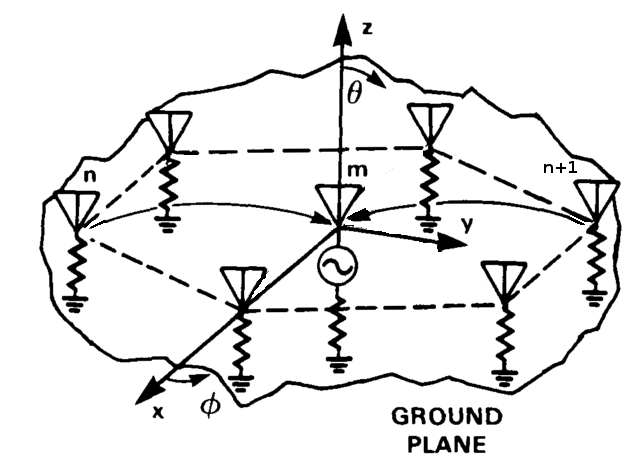
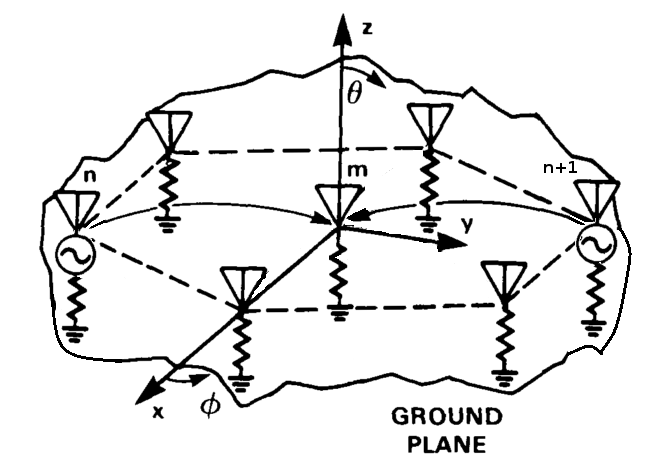
first steps to write the mutual calibration method

diff --git a/written/thesis/capitulos/capitulo04.tex b/written/thesis/capitulos/capitulo04.tex
@@ -5,8 +5,72 @@
 
 \section{Calibración utilizando acoplamientos mútuos}
 
+El método que utiliza los acoplamientos mútuos toma ventaja del acoplamiento mútuo inherente de un arreglo transmitiendo 
+y recibiendo entre elementos adyacentes. Para llevar a cabo dicho método, este tipo de antenas debe cumplir un 
+requerimiento muy importante que es poder transmitir con un elemento y simultáneamente recibir con otro. 
+Ordinariamente, este requerimiento implica separar las redes de transmisión y recepción \cite{Gao2001}. Para antenas que no 
+cumplen la separación de la redes de transmisión y recepción se puede transmitir en una polarización y recibir en otra. 
+En la figura \ref{fig:mutual_general} se puede observar un ejemplo.
+
+\begin{figure}[H]
+ \centering
+ \includegraphics[width=9cm]{gfx/mutualCouplingExample.png}
+ \caption{Ejemplo de calibración utilizando acoplamientos mútuos, transmitiendo en la polarización V y recibiendo en H}
+ \label{fig:mutual_general}
+\end{figure}
+
+\subsection{Método}
+
+Asumiendo que se transmite desde el elemento $m$ y se recibe desde el $n$, la función de transferencia del lazo de 
+calibración está compuesta por la configuración de atenuación y defasaje de los defasadores y atenuadores tanto de 
+transmisión como de recepción, denotados como $w_{Tm}(i)$ y $w_{Rn}(j)$, donde $i$, $j$ son las diferentes posibles 
+configuraciones, y la atenuación y defasaje combinados por los cables, conectores, módulos radiantes y divisores de potencia,
+denotados como $u_{Tm}$ y $u_{Rn}$. Por lo tanto, la función de transferencia completa resulta.
+
+\begin{equation}
+	C^{'}_{m,n} = w_{Tm} u_{Tm} C_{m,n} w_{Rn} u_{Rn}
+	\label{eq:transfer_mn}
+\end{equation}
+
+Si se transmite con el mismo elemento, $m$, pero se recibe con otro, $n + 1$, la transferencia resulta
+
+\begin{equation}
+	C^{'}_{m,n + 1} = w_{Tm} u_{Tm} C_{m,n + 1} w_{Rn + 1} u_{Rn + 1}
+	\label{eq:transfer_mnn}
+\end{equation}
+
+Tomando la relación de ambas transferencias \ref{eq:transfer_mn} y \ref{eq:transfer_mnn},
+
+\begin{equation}
+	W^{'}_{Rn,n + 1} = \dfrac{C^{'}_{m,n}}{C^{'}_{m,n + 1}} = \dfrac{C_{m,n} w_{Rn} u_{Rn}}{C_{m,n + 1} w_{Rn + 1} u_{Rn + 1}}
+	\label{eq:transfer_mn1}
+\end{equation}
+
+Si la distancias entre los pares de elementos $m,n$ y $m,n+1$ es la misma, $C_{m,n} = C_{m, n + 1}$, simplificando la ecuación 
+\ref{eq:transfer_mn1}.
+
+\begin{equation}
+	W^{'}_{Rn,n + 1} = \dfrac{w_{Rn} u_{Rn}}{w_{Rn + 1} u_{Rn + 1}}
+	\label{eq:transfer_mn2}
+\end{equation}
+
+La ecuación \ref{eq:transfer_mn2} resulta en la relación que hay entre los caminos de recepción de los elementos $n$ y 
+$n+1$. Si al elemento $m$ se lo utiliza para recibir y a los elementos $n$ y $n + 1$ para transmitir, la ecuación que se 
+obtiene sirve para calibrar la antena en modo transmisión.
+
+\begin{equation}
+	W^{'}_{Tn,n + 1} = \dfrac{w_{Tn} u_{Tn}}{w_{Tn + 1} u_{Tn + 1}}
+	\label{eq:transfer_mn2}
+\end{equation}
+
+El cálculo previo sirve solamente para el caso donde se conoce el acoplamiento mútuo entre 
+
+
+\subsection{Problemas y limitaciones}
+
+
 Una de las grandes ventajas de este método frente al método anterior es que no requiere hardware extra, logrando así 
-disminuir la complejidad de la antena, de esta forma se puede construir de una forma más compacta.
+disminuir la complejidad de la antena, de esta forma se la puede construir de una forma más compacta.
 
 Tomando como $M$ la cantidad de filas de módulos radiantes por panel y $N$ la cantidad de paneles, las tres modalidades de 
 este método son:
@@ -22,12 +86,22 @@ este método son:
 		La cantidad de ecuaciones necesarias es de $4MN$.
 \end{itemize}
 
-El modo planitud ideal cuenta con otra limitación que, para poder ser utilizado en una antena de cualquier topología utiliza 
-lazos de calibración de tal forma que el acoplamiento mutuo queda eliminado. Para esto hay dos estrategias, la primera transmite 
-con un RM y recibe de forma consecutiva con otros RMs equiespaciados al de transmisión para luego restar ambos caminos. La 
-segunda, transmite de forma consecutiva desde los RMs equiespaciados y recibe con un único RM central, la imagen 
+El acoplamiento mútuo se lo modeliza como si fuese un cable pero con las propiedades de atenuación y defasaje de una onda en
+el vacío. Las cuales son:
 
-\todo{crear la imagen para esa cosa}
+\todo{Poner que significa el alfa}
+\begin{equation}
+	c = \dfrac{e^{-2\alpha r}}{4\pi r^2}
+\end{equation}
+
+El modo planitud ideal cuenta con otra limitación que, si bien se asume que el acoplamiento mútuo es desconocido, se sabe que 
+a distancias iguales dicho acoplamiento es el mismo. Por lo tanto, para calibrar una antena de cualquier topología solo se 
+utilizan lazos de calibración simétricos con un módulo radiante común. Al restar ambos caminos, no solo se elimina el 
+camino común, que puede ser la parte de transmisión o recepción, sino que también se elimina el acoplamiento mútuo.
+
+Si el RM común se utiliza para transmitir la señal, se obtienen ecuaciones para calibrar la parte de recepción, en cambio, 
+si se lo utiliza para recibir la señal, se calibra transmisión. La figura \ref{fig:ideal_strategy} esquematiza esta estrategia.
+
 \begin{figure}[H]
  \centering
 	\subfloat[]{	
@@ -52,10 +126,6 @@ Aumann1989
 Gao2001 (este no esta tan copado, son puras formulas)
 a calibration technique for active phased array antennas (no lo agregue aun a la bibliografia, je)
 Practical faliure compensation in active phased antennas (ni lo lei, pero muy interesante que hacer para compensar algo quemado)
-
-
-Modem phased arrays typically have excellent performance, but still must occasionally undergo phase and amplitude calibration in order to realize their full performance potential. This must be done at least upon completion of antenna fabrication. At the factory, this initial calibration is usually done on a near- field scanning or compact range, and is typically very time consuming. Re-calibration after operational deployment is also required to maintain peak Performance levels, but is typically not done, due to practical difficulties. Re-calibration is also needed if repairs or changes are made in the antenna.
-TSC
 
 
 \todo{poner en algun lado que se sugiere para medir la fase de medir en un unico punto lo que defasa la antena punta a punta una unica vez y se lo carga al metodo}
